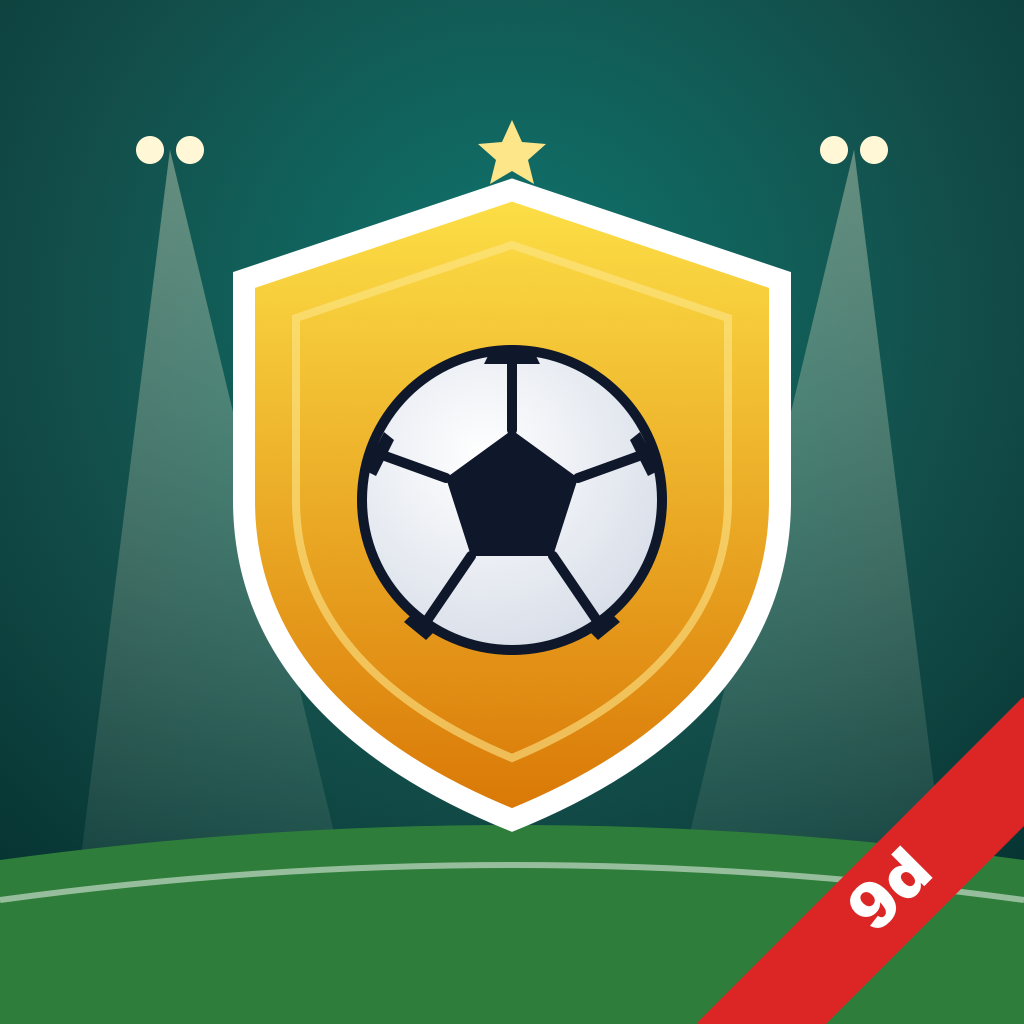
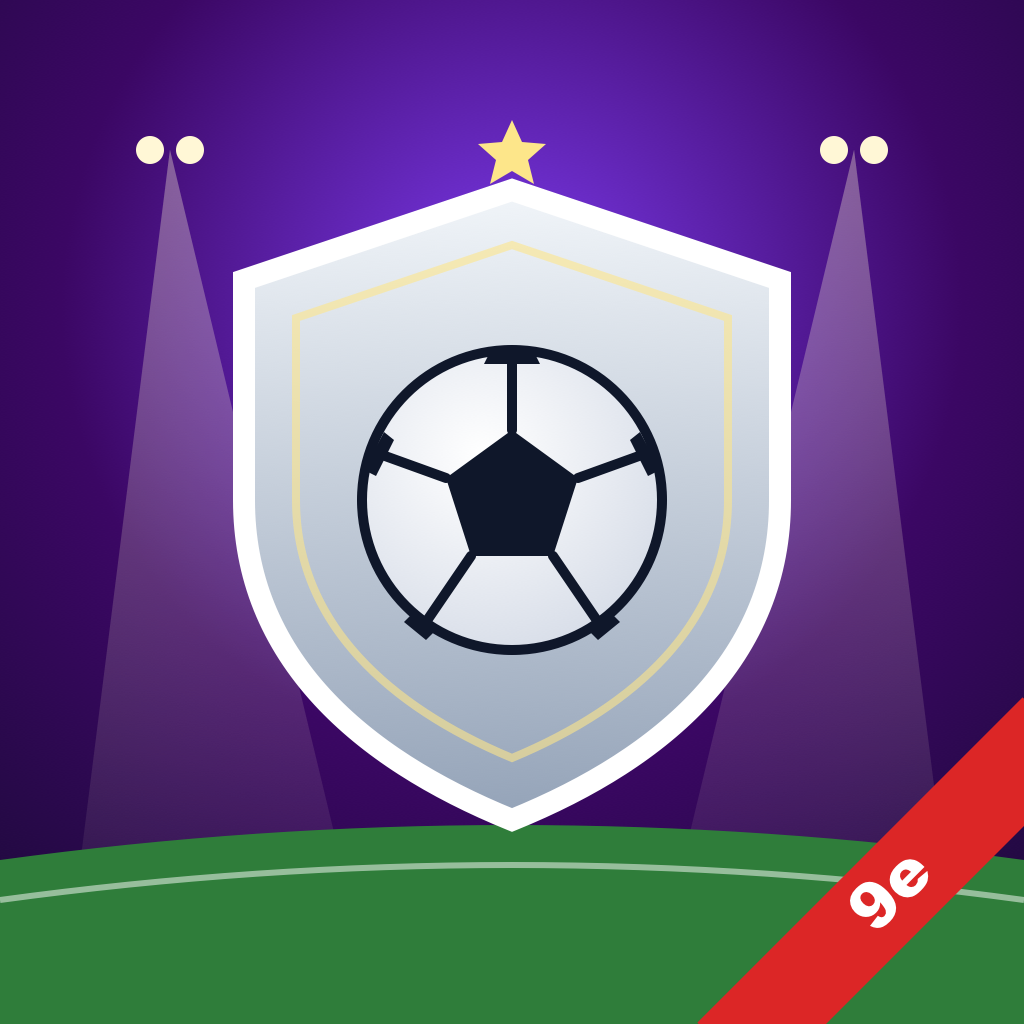
Add files via upload

diff --git a/js/tactics.js b/js/tactics.js
@@ -12,7 +12,8 @@
     t.xi = F.map((_, i) => ok(t.xi[i]) ? t.xi[i] : null);
     t.xi.forEach((id, i) => { if (id && t.xi.indexOf(id) !== i) t.xi[i] = null; });
     const score = (p, pos) => p.rating * [0, .5, .7, .85, .95, 1][C.fit(p, pos)] * (.6 + .4 * p.energy / 100) + (p.promise === 'starter' ? 6 : 0);
-    F.forEach((s, i) => { if (t.xi[i]) return; let best = null, bs = -1; for (const p of car.squad) { if (!C.available(p) || t.xi.includes(p.id)) continue; const v = score(p, s[0]); if (v > bs) { bs = v; best = p; } } t.xi[i] = best ? best.id : null; });
+    t.empty = t.empty || [];
+    F.forEach((s, i) => { if (t.xi[i] || t.empty[i]) return; let best = null, bs = -1; for (const p of car.squad) { if (!C.available(p) || t.xi.includes(p.id)) continue; const v = score(p, s[0]); if (v > bs) { bs = v; best = p; } } t.xi[i] = best ? best.id : null; });
     t.bench = t.bench.filter(id => ok(id) && !t.xi.includes(id));
     const rest = car.squad.filter(p => C.available(p) && !t.xi.includes(p.id) && !t.bench.includes(p.id)).sort((a, b) => b.rating - a.rating + (b.promise === 'rotation' ? 5 : 0) - (a.promise === 'rotation' ? 5 : 0));
     if (!t.bench.some(id => C.P(id).pos === 'GK')) { const gk = rest.find(p => p.pos === 'GK'); if (gk && t.bench.length < 9) { t.bench.unshift(gk.id); rest.splice(rest.indexOf(gk), 1); } }
@@ -28,12 +29,12 @@
       if (!cand) return; const bi = t.bench.indexOf(cand.id); if (bi >= 0) t.bench[bi] = p.id; t.xi[i] = cand.id; n++; });
     if (n) C.save(); return n;
   };
-  C.autoPick = () => { const t = C.tac(); t.xi = []; t.bench = []; C.tac(); C.save(); };
+  C.autoPick = () => { const t = C.tac(); t.xi = []; t.bench = []; t.empty = []; C.tac(); C.save(); };
   C.roles = () => { const t = C.tac(), out = {}; C.squad().forEach(p => out[p.id] = t.xi.includes(p.id) ? 'xi' : t.bench.includes(p.id) ? 'bench' : 'res'); return out; };
   C.setForm = f => { const t = C.tac(), old = C.FORMATIONS[t.form], F = C.FORMATIONS[f], ids = t.xi.slice(), nx = [];
     // keep players, moving each to the closest slot of the new shape
     F.forEach((s, i) => { let bi = -1, bd = 9; old.forEach((o, j) => { if (!ids[j]) return; const d = Math.hypot(o[1] - s[1], o[2] - s[2]) + (o[0] === s[0] ? -.2 : 0); if (d < bd) { bd = d; bi = j; } }); nx[i] = bi >= 0 ? ids[bi] : null; if (bi >= 0) ids[bi] = null; });
-    t.form = f; t.xi = nx; C.tac(); C.save(); };
+    t.form = f; t.xi = nx; t.empty = []; C.tac(); C.save(); };
   C.myTeam = home => {
     const car = C.car(), t = C.tac(), col = C.college();
     const kc = C.kitColours(col.c1, col.c2);
@@ -51,50 +52,87 @@
   };
   const kitOf = p => { const col = C.college(); return p.pos === 'GK' ? ['#facc15', '#111827'] : C.kitColours(col.c1, col.c2); };
 
-  // ================= tactics board =================
+  // ================= shared bits for the board, list and picker =================
+  const PILL = ['#cbd5e1', '#f87171', '#fb923c', '#fcd34d', '#bef264', '#4ade80'];   // fit colours, lighter than the grass
+  const ALLPOS = ['GK', 'CB', 'LB', 'RB', 'DM', 'CM', 'LM', 'RM', 'AM', 'LW', 'RW', 'ST'];
+  // position labels with left/right for duplicates: LCM CM RCM, LCB RCB, LS RS
+  C.slotLabels = form => { const F = C.FORMATIONS[form]; return F.map(s => { const same = F.filter(x => x[0] === s[0]); if (s[0] === 'GK' || same.length < 2 || (same.length === 3 && Math.abs(s[1] - .5) < .06)) return s[0]; return (s[1] < .5 ? 'L' : 'R') + (s[0] === 'ST' ? 'S' : s[0]); }); };
+  // how good a player is in a given position (their attributes for that role, a little less if unfamiliar)
+  C.posRating = (p, pos) => { if ((pos === 'GK') !== (p.pos === 'GK')) return Math.round(p.rating * .35);
+    const key = C.KEY[pos], all = Object.keys(C.attrsOf(p)), km = key.reduce((s, k) => s + (p.a[k] || 0), 0) / key.length, am = all.reduce((s, k) => s + p.a[k], 0) / all.length;
+    return Math.round((.6 * km + .4 * am) * [0, .85, .9, .95, .98, 1][C.fit(p, pos)]); };
+  C.topPositions = p => p.pos === 'GK' ? [['GK', C.posRating(p, 'GK')]] : ALLPOS.filter(x => x !== 'GK').map(x => [x, C.posRating(p, x)]).sort((a, b) => b[1] - a[1]).slice(0, 3);
+  const ring = (f, sz = 14) => { const r = sz / 2 - 2, c = 2 * Math.PI * r, col = f >= 70 ? '#4ade80' : f >= 50 ? '#facc15' : f >= 30 ? '#fb923c' : '#f87171';
+    return `<svg width="${sz}" height="${sz}" viewBox="0 0 ${sz} ${sz}"><circle cx="${sz / 2}" cy="${sz / 2}" r="${r}" fill="none" stroke="rgba(148,163,184,.35)" stroke-width="2.4"/><circle cx="${sz / 2}" cy="${sz / 2}" r="${r}" fill="none" stroke="${col}" stroke-width="2.4" stroke-dasharray="${c * Math.max(0, Math.min(1, f / 100))} ${c}" transform="rotate(-90 ${sz / 2} ${sz / 2})"/></svg>`; };
+  const fcol = f => f >= 70 ? '#4ade80' : f >= 50 ? '#facc15' : f >= 30 ? '#fb923c' : '#f87171';
+  // status icons: captain, injured, suspended, one yellow from a ban
+  C.badges = p => { const car = C.car(), b = [];
+    if (car.captains.includes(p.id)) b.push('<i class="bdg cap" title="Captain">C</i>');
+    if (p.inj) b.push(`<i class="bdg inj" title="Injured: out ${p.inj > 50 ? 'for the season' : p.inj + ' more'}">🩹</i>`);
+    if (p.ban) b.push('<i class="bdg red" title="Suspended next match"></i>');
+    else if (p.ss && p.ss.yc % 5 === 4) b.push('<i class="bdg yel" title="One more yellow card means a ban"></i>');
+    return b.join(''); };
+
+  // ================= tactics: board or list =================
+  let tview = 'board';
+  C.setTacView = v => { tview = v; C.ui.refresh(); };
   C.openTactics = (fromMatch) => C.ui.open('Tactics', () => `<div class="tacdef"><i class="xoi"></i> <b>Your default setup</b> · used for every match until you change it</div>` + boardHTML(fromMatch));
   function boardHTML(fromMatch) {
-    const car = C.car(), t = C.tac(), F = C.FORMATIONS[t.form];
-    const tokens = F.map((s, i) => { const p = C.P(t.xi[i]); const left = s[1] * 100, top = 92 - s[2] * 84;
-      if (!p) return `<button class="tok empty" style="left:${left}%;top:${top}%" data-act="pick" data-v="${i}"><span class="tr">+</span><b>${s[0]}</b></button>`;
-      const ins = t.instr[p.id] ?? 2, fit = C.fit(p, s[0]);
-      return `<button class="tok" style="left:${left}%;top:${top}%" data-act="pick" data-v="${i}">${C.tokenSVG(p, fit, kitOf(p), 54, car.captains.includes(p.id))}${ins !== 2 ? `<i class="ins">${INSTR[ins][0]}</i>` : ''}<b>${C.esc(p.ln)}</b></button>`; }).join('');
-    const bench = t.bench.map((id, i) => { const p = C.P(id); return `<button class="btok" data-act="pick" data-v="b${i}">${C.tokenSVG(p, 5, kitOf(p), 44)}<b>${C.esc(p.ln)}</b><small>${p.pos}</small></button>`; }).join('') + (t.bench.length < 9 ? `<button class="btok add" data-act="pick" data-v="b${t.bench.length}"><span>+</span><small>Add</small></button>` : '');
-    const out = car.squad.filter(p => !C.available(p));
+    const car = C.car(), t = C.tac(), F = C.FORMATIONS[t.form], L = C.slotLabels(t.form);
+    const tokens = F.map((s, i) => { const p = C.P(t.xi[i]), left = s[1] * 100, top = 91 - s[2] * 83;
+      if (!p) return `<div class="tk" style="left:${left}%;top:${top}%" data-act="pick" data-v="${i}"><button class="tkf empty" data-act="pick" data-v="${i}">+</button><button class="tkn" style="background:${PILL[0]}" data-act="pick" data-v="${i}"><span>Empty</span><i>▾</i></button><div class="tkm"><span class="tp">${L[i]}</span></div></div>`;
+      const fit = C.fit(p, s[0]), ins = t.instr[p.id] ?? 2;
+      return `<div class="tk" style="left:${left}%;top:${top}%" data-act="pick" data-v="${i}"><div class="tkb">${C.badges(p)}${ins !== 2 ? `<i class="bdg ins">${INSTR[ins][0]}</i>` : ''}</div>
+        <button class="tkf" data-act="pick" data-v="${i}">${C.faceOf(p)}</button>
+        <button class="tkn" style="background:${PILL[fit]}" data-act="pick" data-v="${i}"><span>${C.esc(p.ln)}</span><i>▾</i></button>
+        <div class="tkm">${ring(p.energy)}<span class="tp">${L[i]}</span><span class="tr">${C.posRating(p, s[0])}</span></div></div>`; }).join('');
+    const row = (p, chip, chipCol, rating, slot) => `<button class="lrw" data-act="${slot != null ? 'pick' : 'player'}" data-v="${slot != null ? slot : p.id}">
+        <span class="lchip" style="background:${chipCol}">${chip}</span><span class="lnm">${C.esc(p.fn[0] + '. ' + p.ln)}${C.badges(p)}</span><b class="lrt">${rating}</b>
+        <span class="ltop">${C.topPositions(p).map(([x, v]) => `<i style="background:${PILL[C.fit(p, x)]}">${x}${v}</i>`).join('')}</span><span class="lfr" style="color:${fcol(p.energy)}">${ring(p.energy)} ${Math.round(p.energy)}%</span></button>`;
+    const list = F.map((s, i) => { const p = C.P(t.xi[i]); return p ? row(p, L[i], PILL[C.fit(p, s[0])], C.posRating(p, s[0]), i) : `<button class="lrw" data-act="pick" data-v="${i}"><span class="lchip" style="background:${PILL[0]}">${L[i]}</span><span class="lnm">Empty: tap to pick</span></button>`; }).join('')
+      + t.bench.map((id, i) => row(C.P(id), 'SUB', '#64748b', C.P(id).rating, 'b' + i)).join('')
+      + car.squad.filter(p => !t.xi.includes(p.id) && !t.bench.includes(p.id)).sort((a, b) => b.rating - a.rating).map(p => row(p, 'RES', '#334155', p.rating, null)).join('');
+    const bench = t.bench.map((id, i) => { const p = C.P(id); return `<button class="btok" data-act="pick" data-v="b${i}"><span class="bf">${C.faceOf(p)}</span><b>${C.esc(p.ln)}</b><small>${ring(p.energy, 12)} ${p.pos} · ${p.rating}</small>${C.badges(p) ? `<em>${C.badges(p)}</em>` : ''}</button>`; }).join('') + (t.bench.length < 9 ? `<button class="btok add" data-act="pick" data-v="b${t.bench.length}"><span>+</span><small>Add</small></button>` : '');
     return `${C.advice('tac')}<div class="forms">${Object.keys(C.FORMATIONS).map(f => `<button class="${t.form === f ? 'on' : ''}" data-act="form" data-v="${f}">${f}</button>`).join('')}</div>
       <div class="ments">${C.MENTALITY.map((m, i) => `<button class="${t.ment === i ? 'on' : ''}" data-act="ment" data-v="${i}"><span>${MENT_ICON[i]}</span></button>`).join('')}</div><p class="mentl">${MENT_ICON[t.ment]} ${C.MENTALITY[t.ment]}</p>
-      <div class="board"><div class="bpitch"><i class="half"></i><i class="circ"></i><i class="box1"></i><i class="box2"></i></div>${tokens}</div>
-      <div class="ringkey"><span><i style="background:${FITC[5]}"></i>Natural</span><span><i style="background:${FITC[3]}"></i>Competent</span><span><i style="background:${FITC[1]}"></i>Out of position</span><span>◔ ring = energy</span></div>
-      <h3 class="jh">Bench <small class="devp">${t.bench.length}/9</small></h3><div class="bench">${bench}</div>
-      ${out.length ? `<p class="note">Unavailable: ${out.map(p => `${p.inj ? '🩹' : '🟥'} ${C.esc(p.ln)}`).join(' · ')}</p>` : ''}
+      <div class="tview"><button class="${tview === 'board' ? 'on' : ''}" data-act="tacview" data-v="board">Board</button><button class="${tview === 'list' ? 'on' : ''}" data-act="tacview" data-v="list">List</button></div>
+      ${tview === 'board' ? `<div class="board tall"><div class="bpitch"><i class="half"></i><i class="circ"></i><i class="box1"></i><i class="box2"></i></div>${tokens}</div>
+        <div class="ringkey"><span><i style="background:${PILL[5]}"></i>Natural</span><span><i style="background:${PILL[4]}"></i>Good</span><span><i style="background:${PILL[3]}"></i>OK</span><span><i style="background:${PILL[2]}"></i>Poor</span><span><i style="background:${PILL[1]}"></i>Wrong</span><span>${ring(70)} Freshness</span></div>
+        <h3 class="jh">Subs <small class="devp">${t.bench.length}/9</small></h3><div class="bench">${bench}</div>`
+      : `<div class="tlist">${list}</div>`}
       <div class="jbtns"><button class="btn sec2" data-act="autopick">✨ Auto pick</button><button class="btn ${t.auto ? 'pri' : 'sec2'}" data-act="automan">${t.auto ? '✔ Auto-manage' : 'Auto-manage: off'}</button></div>
-      <p class="note">With auto-manage on, your staff make subs for injuries and tired legs, changes mentality late on and keeps your playing-time promises.</p>
+      <p class="note">With auto-manage on, your staff make subs for injuries and tired legs, change mentality late on and keep your playing-time promises.</p>
       ${fromMatch ? '<button class="btn full pri" data-act="back">Done</button>' : ''}`;
   }
 
-  // ================= player picker (Q18e) =================
-  let pf = 'all';
+  // ================= alternatives panel (ranked for the slot being filled) =================
+  let pkXI = false, pkSubs = true;
   C.openPicker = slot => C.ui.open('Choose player', () => pickerHTML(slot));
+  C.pickerToggle = k => { if (k === 'xi') pkXI = !pkXI; else pkSubs = !pkSubs; C.ui.refresh(); };
+  C.pickerFilter = () => {};
   function pickerHTML(slot) {
-    const car = C.car(), t = C.tac(), roles = C.roles(), isB = String(slot)[0] === 'b', i = isB ? +String(slot).slice(1) : +slot;
-    const pos = isB ? null : C.FORMATIONS[t.form][i][0], cur = C.P(isB ? t.bench[i] : t.xi[i]);
-    const rows = car.squad.filter(p => p !== cur && (pf === 'all' || roles[p.id] === pf)).sort((a, b) => (pos ? C.fit(b, pos) - C.fit(a, pos) : 0) || b.rating - a.rating).map(p => {
-      const fit = pos ? C.fit(p, pos) : 5, un = !C.available(p);
-      return `<button class="pkrow ${un ? 'lock' : ''}" style="--mk:${{ xi: '#fff', bench: 'var(--sky)', res: 'var(--silver)' }[roles[p.id]]}" data-act="${un ? 'toast' : 'setpick'}" data-v="${un ? (p.inj ? 'Injured: out for ' + p.inj + ' more match' + (p.inj > 1 ? 'es' : '') : 'Suspended for the next match') : slot + '|' + p.id}">
-        <div class="pkf">${C.faceOf(p)}</div><div class="pki"><b>${C.esc(p.fn)} ${C.esc(p.ln)}</b><small><span class="pchip" style="background:${FITC[fit]}">${p.pos}</span>${pos ? ` ${FITS[fit]} ${C.FITLABEL[fit]} here` : ''} · ${un ? (p.inj ? '🩹 Injured' : '🟥 Banned') : '🔋 ' + Math.round(p.energy) + '%'}</small></div><b class="pkr">${p.rating}</b></button>`; }).join('');
+    const car = C.car(), t = C.tac(), isB = String(slot)[0] === 'b', i = isB ? +String(slot).slice(1) : +slot;
+    const pos = isB ? null : C.FORMATIONS[t.form][i][0], label = isB ? 'SUB' : C.slotLabels(t.form)[i], cur = C.P(isB ? t.bench[i] : t.xi[i]);
+    const rate = p => pos ? C.posRating(p, pos) : p.rating, colOf = p => pos ? PILL[C.fit(p, pos)] : '#64748b';
+    const line = (p, act) => { const un = !C.available(p);
+      return `<button class="arow ${un ? 'lock' : ''}" ${act ? `data-act="${un ? 'toast' : 'setpick'}" data-v="${un ? (p.inj ? 'Injured: out ' + (p.inj > 50 ? 'for the season' : p.inj + ' more match' + (p.inj > 1 ? 'es' : '')) : 'Suspended for the next match') : slot + '|' + p.id}"` : ''}>
+        <span class="lchip" style="background:${colOf(p)}">${label}</span><span class="anm">${C.esc(p.fn[0] + '. ' + p.ln)}${C.badges(p)}</span><b class="art">${rate(p)}</b><span class="afr" style="color:${fcol(p.energy)}">${ring(p.energy)} ${Math.round(p.energy)}%</span></button>`; };
+    const inXI = id => t.xi.includes(id), onB = id => t.bench.includes(id);
+    const cands = car.squad.filter(p => p !== cur && (pkXI || !inXI(p.id)) && (pkSubs || !onB(p.id)))
+      .sort((a, b) => (C.available(b) - C.available(a)) || (rate(b) * (.6 + .4 * b.energy / 100)) - (rate(a) * (.6 + .4 * a.energy / 100)));
     const ins = cur && !isB ? t.instr[cur.id] ?? 2 : null;
-    return `<div class="filling">Filling: <b>${pos ? pos + ' (' + C.POSNAME[pos].toLowerCase() + ')' : 'bench spot ' + (i + 1)}</b></div>
-      ${cur ? `<div class="card curp"><div class="pkf">${C.faceOf(cur)}</div><div style="flex:1"><b>${C.esc(cur.fn)} ${C.esc(cur.ln)}</b><small class="mutey">${cur.pos}${pos ? ' · ' + C.FITLABEL[C.fit(cur, pos)] + ' here' : ''} · 🔋 ${Math.round(cur.energy)}%</small></div>${isB ? `<button class="btn sm2" data-act="unpick" data-v="${slot}">Remove</button>` : ''}</div>
-        ${ins != null ? `<label class="fld">Instruction</label><div class="instr">${INSTR.map((x, k) => `<button class="${ins === k ? 'on' : ''}" data-act="instr" data-v="${cur.id}|${k}"><span>${x[0]}</span>${x[1].replace('Ultra ', 'Ultra ')}</button>`).join('')}</div>` : ''}` : ''}
-      <div class="filters" style="padding:10px 0 0">${[['all', 'All'], ['xi', 'XI'], ['bench', 'Bench'], ['res', 'Reserves']].map(([k, n]) => `<button class="f ${pf === k ? 'on' : ''}" data-act="pkf" data-v="${k}">${n}</button>`).join('')}</div>${rows}`;
+    return `<div class="altp"><small class="ahd">Currently selected</small>${cur ? line(cur, false) : `<div class="arow"><span class="lchip" style="background:${PILL[0]}">${label}</span><span class="anm">Empty</span></div>`}
+      ${ins != null ? `<div class="instr" style="margin-top:8px">${INSTR.map((x, k) => `<button class="${ins === k ? 'on' : ''}" data-act="instr" data-v="${cur.id}|${k}"><span>${x[0]}</span>${x[1]}</button>`).join('')}</div>` : ''}
+      <div class="ahd2"><small class="ahd">Best alternatives</small><button class="chk ${pkXI ? 'on' : ''}" data-act="pktog" data-v="xi">Show XI</button><button class="chk ${pkSubs ? 'on' : ''}" data-act="pktog" data-v="subs">Show subs</button></div>
+      <div class="alist">${cands.map(p => line(p, true)).join('') || '<p class="note">Nobody else available.</p>'}</div>
+      ${cur ? `<button class="btn full altrm" data-act="unpick" data-v="${slot}">Remove player from line-up</button>` : ''}</div>`;
   }
-  C.pickerFilter = v => { pf = v; C.ui.refresh(); };
   C.setPick = (slot, pid) => {
     const t = C.tac(), isB = String(slot)[0] === 'b', i = isB ? +String(slot).slice(1) : +slot, arr = isB ? t.bench : t.xi, cur = arr[i];
-    const xi = t.xi.indexOf(pid), bi = t.bench.indexOf(pid);
-    if (xi >= 0) t.xi[xi] = cur || null; else if (bi >= 0) { if (cur) t.bench[bi] = cur; else t.bench.splice(bi, 1); }
-    arr[i] = pid; if (isB) t.bench = t.bench.filter(Boolean);
+    const xi = t.xi.indexOf(pid), bi = t.bench.indexOf(pid); t.empty = t.empty || [];
+    if (xi >= 0) { t.xi[xi] = cur || null; if (!cur) t.empty[xi] = true; } else if (bi >= 0) { if (cur) t.bench[bi] = cur; else t.bench.splice(bi, 1); }
+    arr[i] = pid; if (isB) t.bench = t.bench.filter(Boolean); else t.empty[i] = false;
     C.save();
   };
-  C.unpick = slot => { const t = C.tac(), isB = String(slot)[0] === 'b', i = isB ? +String(slot).slice(1) : +slot; if (isB) t.bench.splice(i, 1); else t.xi[i] = null; C.save(); };
+  C.unpick = slot => { const t = C.tac(), isB = String(slot)[0] === 'b', i = isB ? +String(slot).slice(1) : +slot; t.empty = t.empty || []; if (isB) t.bench.splice(i, 1); else { t.xi[i] = null; t.empty[i] = true; } C.save(); };
 })(window.CFC);

diff --git a/css/style.css b/css/style.css
@@ -800,3 +800,40 @@ button{font-family:inherit;cursor:pointer;color:inherit}
 .tacdef{background:var(--bg);border-radius:12px;padding:8px 10px;font-size:12.5px;font-weight:700;color:var(--mute);margin-bottom:8px}.tacdef b{color:var(--ink)}
 .xoi.big{width:30px;height:30px;border-radius:8px}
 .forms{flex-wrap:wrap;overflow:visible}.forms button{padding:7px 10px;font-size:13px}
+
+/* ---------- phase-9e: tactics board tokens, list view and alternatives panel ---------- */
+.board.tall{aspect-ratio:68/118}
+.tk{position:absolute;transform:translate(-50%,-50%);width:84px;display:flex;flex-direction:column;align-items:center}
+.tkf{width:42px;height:42px;border-radius:50%;overflow:hidden;border:2px solid #14b8a6;background:#475569;padding:0;box-shadow:0 2px 4px rgba(0,0,0,.35)}
+.tkf.empty{border:2px dashed #fff;background:rgba(255,255,255,.12);color:#fff;font:900 20px Nunito}
+.tkn{margin-top:-4px;max-width:84px;border:0;border-radius:999px;padding:2px 6px 2px 9px;display:flex;align-items:center;gap:3px;color:#0f172a;font:900 11.5px Nunito;box-shadow:0 1px 2px rgba(0,0,0,.3)}
+.tkn span{overflow:hidden;text-overflow:ellipsis;white-space:nowrap;max-width:60px}.tkn i{font-style:normal;font-size:10px}
+.tkm{display:flex;align-items:center;gap:3px;margin-top:2px}
+.tkm .tp,.tkm .tr{background:rgba(11,18,32,.75);color:#fff;font:900 9.5px/1 Nunito;border-radius:999px;padding:3px 6px}
+.tkb{position:absolute;top:-8px;left:50%;transform:translateX(-50%);display:flex;gap:2px;z-index:1}
+.bdg{display:inline-flex;align-items:center;justify-content:center;font-style:normal;min-width:15px;height:15px;border-radius:4px;font:900 9px Nunito;margin-left:3px;vertical-align:1px}
+.bdg.cap{background:#2563eb;color:#fff}.bdg.inj{background:#fee2e2;font-size:9px}.bdg.ins{background:#fff;color:#0f172a}
+.bdg.red{background:#dc2626;width:11px;min-width:11px;height:15px;box-shadow:inset 0 0 0 1.5px #fff}
+.bdg.yel{background:#f97316;width:11px;min-width:11px;height:15px;box-shadow:inset 0 0 0 1.5px #fff}
+.tview{display:grid;grid-template-columns:1fr 1fr;gap:6px;margin-bottom:8px}.tview button{border:0;border-radius:12px;padding:8px;font-weight:900;background:var(--card);box-shadow:var(--shadow);color:var(--ink)}.tview button.on{background:var(--school);color:#fff}
+.tlist{background:#111827;border-radius:16px;padding:6px;color:#f8fafc}
+.lrw,.arow{display:grid;grid-template-columns:44px 1fr 28px auto 58px;gap:6px;align-items:center;width:100%;border:0;background:#1f2937;color:#f8fafc;border-radius:10px;padding:7px 6px;margin-bottom:4px;text-align:left;font-size:12.5px;font-weight:800}
+.lrw .lnm,.arow .anm{overflow:hidden;white-space:nowrap;text-overflow:ellipsis}
+.lchip{display:inline-block;text-align:center;border-radius:999px;font:900 10.5px/20px Nunito;color:#0f172a;min-width:40px}
+.lrt,.art{text-align:right}
+.ltop{display:flex;gap:3px}.ltop i{font-style:normal;font:900 9px/16px Nunito;color:#0f172a;border-radius:999px;padding:0 5px}
+.lfr,.afr{display:flex;align-items:center;gap:3px;justify-content:flex-end;font-size:11.5px}
+.arow{grid-template-columns:44px 1fr 30px 60px}
+.altp{background:#111827;border-radius:16px;padding:10px;color:#f8fafc;margin:0 -4px}
+.ahd{display:block;font:900 10.5px Nunito;letter-spacing:.6px;text-transform:uppercase;color:#94a3b8;margin:2px 2px 6px}
+.ahd2{display:flex;align-items:center;gap:8px;margin-top:12px}.ahd2 .ahd{flex:1;margin:0}
+.chk{border:1.5px solid #64748b;background:none;color:#cbd5e1;border-radius:6px;font:900 10.5px Nunito;padding:4px 8px}.chk.on{background:#4ade80;border-color:#4ade80;color:#0f172a}
+.chk:before{content:"☐ "}.chk.on:before{content:"☑ "}
+.alist{margin-top:8px;max-height:52vh;overflow-y:auto}
+.arow.lock{opacity:.45}
+.altrm{margin-top:10px;background:#4338ca;color:#fff;text-transform:uppercase;letter-spacing:.5px;font-size:14px}
+.altp .instr button{background:#1f2937;color:#e2e8f0;box-shadow:none}.altp .instr button.on{background:var(--school);color:#fff}
+.btok .bf{width:38px;height:38px;border-radius:50%;overflow:hidden;background:#475569;border:2px solid #64748b}
+.btok small{display:flex;align-items:center;gap:2px;justify-content:center}
+.btok em{font-style:normal;position:absolute;top:2px;right:2px}.btok{position:relative}
+.tk{cursor:pointer}

diff --git a/js/players.js b/js/players.js
@@ -47,6 +47,11 @@
     return { skin, hair, eyes, style, female: female ? 1 : 0, beard };
   };
 
+  // top a player up to two alternative positions (the nearest ones), for saves made before 9e
+  C.ensureAlts = p => { if (p.pos === 'GK' || (p.sec || []).length >= 2) return; p.sec = p.sec || [];
+    const near = Object.keys(POS).filter(q => q !== p.pos && q !== 'GK' && !p.sec.includes(q)).sort((a, b) => Math.hypot((POS[p.pos][0] - POS[a][0]) * .6, POS[p.pos][1] - POS[a][1]) - Math.hypot((POS[p.pos][0] - POS[b][0]) * .6, POS[p.pos][1] - POS[b][1]));
+    while (p.sec.length < 2 && near.length) p.sec.push(near.shift()); };
+
   // ---------- numbers (Q29) ----------
   const LIKES = { GK: [1, 0], CB: [4, 5, 3], LB: [3], RB: [2], DM: [6], CM: [8, 14, 16], LM: [11, 7], RM: [7], AM: [10], LW: [11, 7], RW: [7, 11], ST: [9, 10] };
 
@@ -57,10 +62,11 @@
     const fn = pk(P[gender === 'w' ? 3 : 2]), ln = pk(P[4]).replace(/^OBrien$/, "O'Brien"), town = P[1].split('|')[Math.floor(r() * P[1].split('|').length)];
     const keys = pos === 'GK' ? Object.keys(C.GKATTR) : Object.keys(C.ATTR), prof = PROFILE[pos], a = {};
     for (const k of keys) a[k] = C.clamp(Math.round(rating + (prof[k] || 0) + (r() * 8 - 4)), 8, 95);
-    const sec = []; if (pos !== 'GK') { const near = Object.keys(POS).filter(q => q !== pos && q !== 'GK' && Math.hypot((POS[pos][0] - POS[q][0]) * .6, POS[pos][1] - POS[q][1]) < .3); const n = Math.floor(r() * 3); for (let i = 0; i < n && near.length; i++) sec.push(near.splice(Math.floor(r() * near.length), 1)[0]); }
+    const sec = []; if (pos !== 'GK') { const near = Object.keys(POS).filter(q => q !== pos && q !== 'GK' && Math.hypot((POS[pos][0] - POS[q][0]) * .6, POS[pos][1] - POS[q][1]) < .3); const n = 2; /* outfield players: one main position (green) and two alternatives (lime) */ for (let i = 0; i < n && near.length; i++) sec.push(near.splice(Math.floor(r() * near.length), 1)[0]); }
     const p = { id: 'p' + Math.floor(r() * 1e9).toString(36) + Date.now().toString(36).slice(-3), fn, ln, pool, flag: P[0], town, pos, sec, rar, a, year,
       look: C.makeLook(r, pool, gender === 'w'), energy: 100, morale: 70, num: 0, want: r() < .35 ? LIKES[pos][Math.floor(r() * LIKES[pos].length)] : 0,
       schol: 0, acad: false, stars: 0, dev: 0, fitB: {}, lead: Math.round(35 + r() * 55), gpa: +(2.3 + r() * 1.7).toFixed(2), up: 0 };
+    C.ensureAlts(p);
     p.rating = C.calcRating(p); p.pot = C.clamp(p.rating + Math.round((4 + r() * 10) * (1 + rar * .3) * (year <= 2 ? 1.2 : .7)), p.rating + 1, 95);
     return p;
   };

diff --git a/js/state.js b/js/state.js
@@ -1,6 +1,6 @@
 // Club FC: save data, careers (save slots), account and the two clocks (Q13, Q27).
 (function (C) {
-  const KEY = 'clubfc2_p9d';
+  const KEY = 'clubfc2_p9e';
   const FREE_SLOTS = 2;
 
   // Account-wide: Coins and purchases are shared across careers.
@@ -10,13 +10,13 @@
 
   C.load = () => {
     // first open: carry over the latest earlier save (9b, then 9) (and intro flag) so playtest progress isn't lost
-    try { for (const old of ['clubfc2_p9c', 'clubfc2_p9b', 'clubfc2_p9']) { if (!localStorage.getItem(KEY) && localStorage.getItem(old)) { localStorage.setItem(KEY, localStorage.getItem(old)); if (localStorage.getItem(old + '_intro')) localStorage.setItem(KEY + '_intro', '1'); } } } catch (e) { }
+    try { for (const old of ['clubfc2_p9d', 'clubfc2_p9c', 'clubfc2_p9b', 'clubfc2_p9']) { if (!localStorage.getItem(KEY) && localStorage.getItem(old)) { localStorage.setItem(KEY, localStorage.getItem(old)); if (localStorage.getItem(old + '_intro')) localStorage.setItem(KEY + '_intro', '1'); } } } catch (e) { }
     try { const raw = localStorage.getItem(KEY); if (raw) { const d = JSON.parse(raw); if (d && d.v === 2) C.db = d; } } catch (e) { /* storage blocked: play without saving */ }
     C.db.account = Object.assign(freshAccount(), C.db.account);
     C.db.careers.forEach(c => { if (c.job && !c.job.mix) { c.job.rating = { 3: 46, 2: 42, 1: 38 }[c.job.stars] + 1; c.job.mix = [6, 6, 5, 4]; } C.ensureSquad(c);
       // 9c: Video Room and Media Centre are new; the Coaches' Office no longer earns
       if (c.b.video == null) c.b.video = 0; if (c.b.media == null) c.b.media = 1; c.store = c.store || {}; if (c.store.media == null) c.store.media = C.now(); delete c.store.hq;
-      c.queue = (c.queue || []).filter(q => C.BUILDINGS[q.key]); });
+      c.queue = (c.queue || []).filter(q => C.BUILDINGS[q.key]); (c.squad || []).forEach(C.ensureAlts); });
   };
   C.save = () => { try { localStorage.setItem(KEY, JSON.stringify(C.db)); } catch (e) { /* ignore */ } };
 

diff --git a/js/main.js b/js/main.js
@@ -7,7 +7,7 @@
     if (col) { r.setProperty('--school', col.c1); r.setProperty('--school2', col.c2); } };
 
   let e2 = null;
-  C.BUILD = 'phase-9d · 2 Nov 2026';
+  C.BUILD = 'phase-9e · 2 Nov 2026';
   // actions that spend something: show a preview first, act only once confirmed
   const NEEDS_OK = { buydeal: 1, buy: 1, buypack: 1, cmanual: 1, clic: 1, ctrait: 1, treatc: 1, buykitc: 1, teamsess: 1, chire: 1 };
   function preview(a, v) {
@@ -136,6 +136,8 @@
       case 'ment': C.tac().ment = +v; C.save(); C.ui.refresh(); break;
       case 'pick': C.openPicker(v); break;
       case 'pkf': C.pickerFilter(v); break;
+      case 'pktog': C.pickerToggle(v); break;
+      case 'tacview': C.setTacView(v); break;
       case 'setpick': { const [s, pid] = v.split('|'); C.setPick(s, pid); C.ui.back(); C.ui.refresh(); if (C.tab === 'squad') C.render(); break; }
       case 'unpick': C.unpick(v); C.ui.back(); C.ui.refresh(); break;
       case 'instr': { const [pid, k] = v.split('|'); C.tac().instr[pid] = +k; C.save(); C.ui.refresh(); break; }
@@ -205,7 +207,7 @@
         if (v === 'finish') { car.queue.forEach(q => q.end = C.now()); (car.devq || []).forEach(q => q.end = C.now()); (car.pbq || []).forEach(q => q.end = C.now()); C.tickDev(); C.tickPB(); }
         C.save(); C.tick(); C.render(); C.ui.refresh(); C.toast('Done'); break;
       case 'wipe': C.ui.open('Delete all data', () => `<p class="note" style="font-size:14px">This deletes every career and resets Coins and purchases on this device.</p><button class="btn full danger" data-act="wipeyes">Yes, delete everything</button>`); break;
-      case 'wipeyes': try { localStorage.removeItem('clubfc2_p9d'); } catch (e) { } location.reload(); break;
+      case 'wipeyes': try { localStorage.removeItem('clubfc2_p9e'); } catch (e) { } location.reload(); break;
       case 'store': C.openStore(); break;
       case 'buy': { const a2 = C.acct();
         if (v === 'vip') a2.vipUntil = Math.max(a2.vipUntil, C.now()) + 30 * 864e5;

diff --git a/js/help.js b/js/help.js
@@ -22,8 +22,8 @@
       ${step < INTRO.length - 1 ? '<button class="btn full sec2" data-act="introskip" style="margin-top:8px">Skip</button>' : ''}`;
   }
   C.introNext = () => { if (step < INTRO.length - 1) { step++; C.ui.refresh(); } else C.introDone(); };
-  C.introDone = () => { try { localStorage.setItem('clubfc2_p9d_intro', '1'); } catch (e) { } if (after) { const f = after; after = null; f(); } else C.ui.back(); };
-  C.introSeen = () => { try { return !!localStorage.getItem('clubfc2_p9d_intro'); } catch (e) { return true; } };
+  C.introDone = () => { try { localStorage.setItem('clubfc2_p9e_intro', '1'); } catch (e) { } if (after) { const f = after; after = null; f(); } else C.ui.back(); };
+  C.introSeen = () => { try { return !!localStorage.getItem('clubfc2_p9e_intro'); } catch (e) { return true; } };
 
   // ---------- Coach's Handbook ----------
   C.HANDBOOK = [

diff --git a/sw.js b/sw.js
@@ -1,6 +1,6 @@
 // Club FC offline cache. Bump VERSION when you publish a new build.
-const PREFIX = 'clubfc2-p9d';
-const VERSION = 'clubfc2-p9d-net1';
+const PREFIX = 'clubfc2-p9e';
+const VERSION = 'clubfc2-p9e-net1';
 const FILES = ['./', './index.html', './manifest.webmanifest', './css/style.css',
   './js/util.js', './js/data.js', './js/art-scenes.js', './img/manifest.json', './js/state.js', './js/build.js', './js/names.js', './js/art-faces.js', './js/players.js', './js/squad.js', './js/recruit.js', './js/engine.js', './js/season.js', './js/tactics.js', './js/match.js', './js/staff.js', './js/playbook.js', './js/career.js', './js/liveops.js', './js/medical.js', './js/home.js', './js/art-campus.js', './js/ui.js', './js/jobs.js', './js/help.js', './js/ad.js', './js/screens.js', './js/main.js',
   './icon-192.png', './icon-512.png', './apple-touch-icon.png'];

diff --git a/js/match.js b/js/match.js
@@ -69,7 +69,7 @@
     const f = C.myFixture(); if (!f) return C.toast('No match to play');
     const rot = C.autoRotate(); if (rot) C.toast(`🔄 Auto-manage rested ${rot} tired player${rot > 1 ? 's' : ''}`);
     const car = C.car(), my = f.h === 0 ? 0 : 1, opp = C.oppTeam(my === 0 ? f.a : f.h), t = C.tac();
-    if (t.xi.filter(Boolean).length < 11) return C.toast('Not enough fit players for an XI');
+    if (t.xi.filter(Boolean).length < 11) { C.toast(t.empty && t.empty.some(Boolean) ? 'Fill every position in Tactics first' : 'Not enough fit players for an XI'); return C.openTactics(); }
     M = { f, my, opp, cd: 5, speed: 1, playing: false, ev: 0 };
     M.att = C.attendance(f); M.locals = t.xi.map(C.P).filter(p => p && C.isLocal(p)).length;
     C.ui.closeAll(); drawPre(); countdown();

diff --git a/index.html b/index.html
@@ -7,7 +7,7 @@
 <meta name="apple-mobile-web-app-capable" content="yes">
 <meta name="apple-mobile-web-app-status-bar-style" content="black-translucent">
 <title>Club FC</title>
-<meta name="apple-mobile-web-app-title" content="Club FC 9d">
+<meta name="apple-mobile-web-app-title" content="Club FC 9e">
 <link rel="manifest" href="manifest.webmanifest">
 <link rel="apple-touch-icon" href="apple-touch-icon.png">
 <link rel="preconnect" href="https://fonts.googleapis.com">
